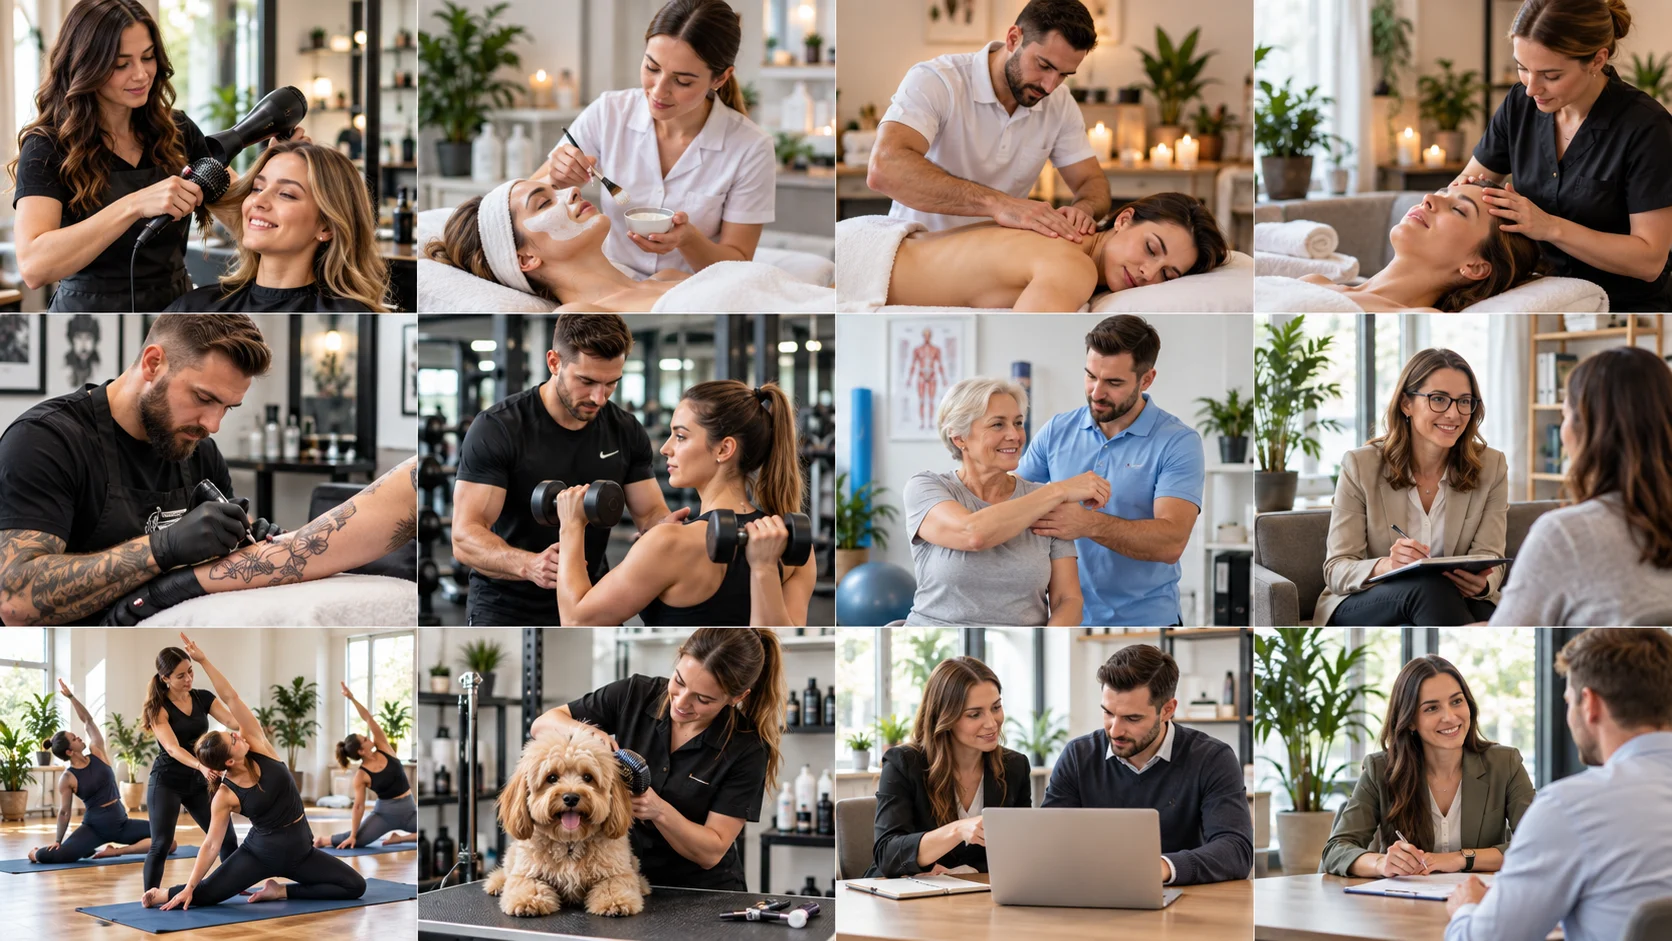
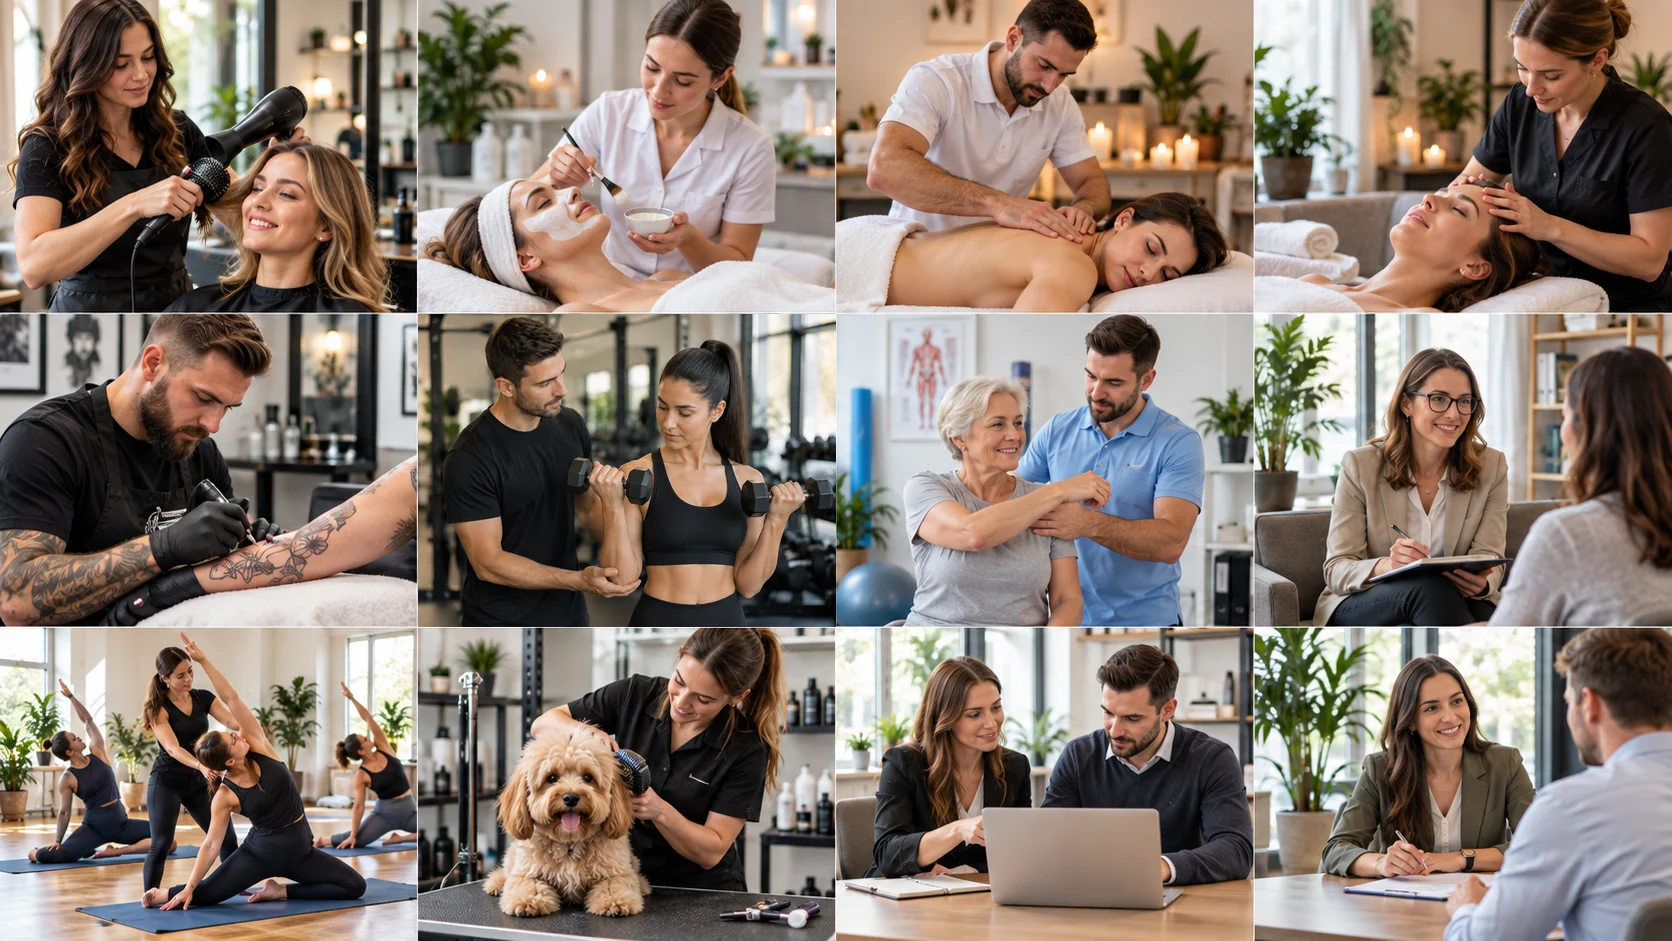
Align the header and add product heroes to feature pages
The home and pricing pages squeeze every .container to 1380px with
clamp(20px, 4vw, 48px) side padding, while the shared Navbar and Footer
kept max-w-[1500px] with 32px padding everywhere else. That made the
logo and login button sit wider on every other route. Navbar, Footer and
CustomerNavbar now use one .site-shell-container with the home values,
so the header and footer line up on all routes.

Feature pages get a two-column hero that shows the page's existing real
screenshot in the home-page browser frame (reusing the home hero
classes), with click-to-enlarge in a native dialog. The lower duplicate
figure is removed, the page sections use the same shell width, and the
fiscal cash register page now shows the invoice screenshot with alt text
describing what is visible. Integracije has no screenshot yet and keeps
a single-column hero.

Replace the "Fitnes & osebno trenerstvo" card in the homepage sprite
sheet (source PNG and webp): the old photo had malformed hands and a
Nike logo.

Changed region(s): [[0.2488, 0.3082, 0.4976, 0.678]]

diff --git a/src/pages/FeatureDetailPage.tsx b/src/pages/FeatureDetailPage.tsx
@@ -5,6 +5,7 @@ import { GroupBookingHero, GroupBookingUseCases } from "@/components/marketing/G
 import AnswerSummary from "@/components/seo/AnswerSummary";
 import PageBreadcrumbs from "@/components/seo/PageBreadcrumbs";
 import RelatedPages from "@/components/seo/RelatedPages";
+import FeatureHeroVisual from "@/components/marketing/FeatureHeroVisual";
 import { Button } from "@/components/ui/button";
 import { getFaqForRoute } from "@/lib/faq";
 import { getFeatureContent, isFeatureRouteKey } from "@/lib/feature-pages";
@@ -27,11 +28,6 @@ const FeatureDetailPage = () => {
   const page = getFeatureContent(routeKey, language);
   const isGroupBookingPage = routeKey === "groupBookings";
   const faq = getFaqForRoute(routeKey, language) ?? [];
-  const screenshotWidthClass = routeKey === "clientManagement"
-    ? "mx-auto max-w-2xl"
-    : routeKey === "invoicing"
-      ? "mx-auto max-w-4xl"
-      : "";
 
   return (
     <div className={`marketing-page marketing-redesign min-h-screen bg-background${isGroupBookingPage ? " group-bookings-page" : ""}`}>
@@ -40,11 +36,12 @@ const FeatureDetailPage = () => {
         {isGroupBookingPage ? (
           <GroupBookingHero page={page} language={language} ctaRef={heroCtaRef} />
         ) : (
-        <section className="border-b border-border/60 bg-gradient-to-br from-background via-card to-primary/[0.05] py-16 md:py-24">
-          <div className="container mx-auto max-w-6xl px-4 lg:px-8">
+        <section className="overflow-hidden border-b border-border/60 bg-gradient-to-br from-background via-card to-primary/[0.05] py-16 md:py-24">
+          <div className={`site-shell-container grid items-start gap-11${page.screenshot ? " lg:grid-cols-2 lg:gap-14" : ""}`}>
+            <div className="min-w-0">
             <PageBreadcrumbs routeKey={routeKey} />
             <span className="marketing-eyebrow">{page.eyebrow}</span>
-            <h1 className="mt-4 max-w-4xl font-display text-4xl font-extrabold tracking-tight text-foreground md:text-6xl">
+            <h1 className={`mt-4 font-display text-[clamp(2.25rem,4.15vw,3.7rem)] font-[750] leading-[1.08] tracking-[-0.047em] text-foreground ${page.screenshot ? "max-w-[640px]" : "max-w-4xl"}`}>
               {page.title}
             </h1>
             <p className="mt-6 max-w-3xl text-lg leading-8 text-muted-foreground md:text-xl">{page.intro}</p>
@@ -74,6 +71,8 @@ const FeatureDetailPage = () => {
                 </a>
               </Button>
             </div>
+            </div>
+            {page.screenshot ? <FeatureHeroVisual screenshot={page.screenshot} language={language} /> : null}
           </div>
         </section>
         )}
@@ -81,7 +80,7 @@ const FeatureDetailPage = () => {
         {isGroupBookingPage ? (
           <GroupBookingUseCases page={page} />
         ) : (
-        <section className="container mx-auto max-w-6xl px-4 py-16 lg:px-8 md:py-24">
+        <section className="site-shell-container py-16 md:py-24">
           <h2 className="font-display text-3xl font-bold tracking-tight text-foreground sm:text-4xl">{page.useCasesTitle}</h2>
           <p className="mt-4 max-w-3xl text-lg leading-8 text-muted-foreground">{page.useCasesIntro}</p>
           <div className="mt-10 grid gap-6 md:grid-cols-2">
@@ -96,7 +95,7 @@ const FeatureDetailPage = () => {
         )}
 
         <section className="bg-card py-16 md:py-24">
-          <div className="container mx-auto max-w-6xl px-4 lg:px-8">
+          <div className="site-shell-container">
             <h2 className="font-display text-3xl font-bold tracking-tight text-foreground sm:text-4xl">{page.benefitsTitle}</h2>
             <div className="mt-10 grid gap-6 md:grid-cols-3">
               {page.benefits.map((benefit) => (
@@ -110,7 +109,7 @@ const FeatureDetailPage = () => {
           </div>
         </section>
 
-        <section className="container mx-auto max-w-6xl px-4 py-16 lg:px-8 md:py-24">
+        <section className="site-shell-container py-16 md:py-24">
           <h2 className="font-display text-3xl font-bold tracking-tight text-foreground sm:text-4xl">{page.comparisonTitle}</h2>
           <p className="mt-4 max-w-3xl text-lg leading-8 text-muted-foreground">{page.comparisonIntro}</p>
 
@@ -151,7 +150,7 @@ const FeatureDetailPage = () => {
         </section>
 
         <section className="bg-card py-16 md:py-24">
-          <div className="container mx-auto grid max-w-6xl gap-10 px-4 lg:grid-cols-[0.8fr_1.2fr] lg:px-8">
+          <div className="site-shell-container grid gap-10 lg:grid-cols-[0.8fr_1.2fr]">
             <div>
               <Link2 className="h-8 w-8 text-primary" aria-hidden="true" />
               <h2 className="mt-5 font-display text-3xl font-bold text-foreground">{page.processTitle}</h2>
@@ -169,29 +168,8 @@ const FeatureDetailPage = () => {
           </div>
         </section>
 
-        {page.screenshot ? (
-          <section className="container mx-auto max-w-6xl px-4 py-16 lg:px-8 md:py-24">
-            <figure className={`overflow-hidden rounded-3xl border border-border/60 bg-card shadow-soft ${screenshotWidthClass}`.trim()}>
-              <img
-                src={page.screenshot.src}
-                srcSet={page.screenshot.srcSet}
-                sizes={page.screenshot.sizes}
-                alt={page.screenshot.alt}
-                width={page.screenshot.width}
-                height={page.screenshot.height}
-                loading="lazy"
-                decoding="async"
-                className="block h-auto w-full"
-              />
-              <figcaption className="border-t border-border/60 px-5 py-4 text-sm text-muted-foreground">
-                {page.screenshot.caption}
-              </figcaption>
-            </figure>
-          </section>
-        ) : null}
-
         {page.details.length > 0 && <section className="bg-card py-16 md:py-24">
-          <div className="container mx-auto max-w-6xl px-4 lg:px-8">
+          <div className="site-shell-container">
             <h2 className="font-display text-3xl font-bold tracking-tight text-foreground sm:text-4xl">{page.detailsTitle}</h2>
             <div className="mt-10 grid gap-6 md:grid-cols-2">
               {page.details.map((detail) => (
@@ -204,7 +182,7 @@ const FeatureDetailPage = () => {
           </div>
         </section>}
 
-        <section className="container mx-auto max-w-6xl px-4 py-16 lg:px-8 md:py-24">
+        <section className="site-shell-container py-16 md:py-24">
           <h2 className="font-display text-3xl font-bold tracking-tight text-foreground sm:text-4xl">{page.faqTitle}</h2>
           <div className="mt-8 grid gap-3">
             {faq.map((item) => (
@@ -220,7 +198,7 @@ const FeatureDetailPage = () => {
 
         <RelatedPages routeKey={routeKey} />
 
-        <section className="container mx-auto max-w-6xl px-4 py-16 text-center lg:px-8 md:py-24">
+        <section className="site-shell-container py-16 text-center md:py-24">
           <h2 className="font-display text-3xl font-bold text-foreground">{page.finalTitle}</h2>
           <p className="mx-auto mt-4 max-w-2xl text-lg text-muted-foreground">{page.finalBody}</p>
           <Button variant="hero" size="lg" className="mt-7 rounded-xl" asChild>

diff --git a/src/components/marketing/FeatureHeroVisual.tsx b/src/components/marketing/FeatureHeroVisual.tsx
@@ -1,0 +1,103 @@
+import { useRef } from "react";
+import { MousePointerClick, X, ZoomIn } from "lucide-react";
+import type { SiteLanguage } from "@/lib/site-language";
+
+type FeatureHeroScreenshot = {
+  src: string;
+  srcSet?: string;
+  alt: string;
+  caption: string;
+  width: number;
+  height: number;
+};
+
+type FeatureHeroVisualProps = {
+  screenshot: FeatureHeroScreenshot;
+  language: SiteLanguage;
+};
+
+/** Tallest the framed screenshot may render in the hero. */
+const MAX_FRAME_IMAGE_HEIGHT = 540;
+/** The hero thumbnail is cropped from the top-left to an aspect between these
+ * bounds, so portrait screens are not too tall and very wide ones (inventory)
+ * are not too small to read. The dialog always shows the whole screenshot. */
+const MIN_FRAME_ASPECT = 1;
+const MAX_FRAME_ASPECT = 1.6;
+
+/**
+ * Product visual for the feature-page hero. It reuses the home-page hero's
+ * browser frame, hint and caption classes (src/styles/homepage.css, which is
+ * part of the global stylesheet), so both heroes stay visually identical.
+ * It shows the page's real screenshot only; clicking it opens the same image
+ * at full size in a native modal dialog.
+ */
+const FeatureHeroVisual = ({ screenshot, language }: FeatureHeroVisualProps) => {
+  const dialogRef = useRef<HTMLDialogElement>(null);
+  const sl = language === "sl";
+  const aspect = Math.min(MAX_FRAME_ASPECT, Math.max(MIN_FRAME_ASPECT, screenshot.width / screenshot.height));
+  const frameMaxWidth = Math.round(MAX_FRAME_IMAGE_HEIGHT * aspect);
+
+  const open = () => dialogRef.current?.showModal();
+  const close = () => dialogRef.current?.close();
+
+  return (
+    // Top-aligned with the headline (lg:pt-24) rather than centred on the long copy column.
+    <div className="relative mx-auto flex w-full min-w-0 max-w-[760px] flex-col items-center before:pointer-events-none before:absolute before:inset-[-60px_-80px] before:bg-[radial-gradient(ellipse,hsl(211_100%_96%),transparent_70%)] before:content-[''] lg:max-w-none lg:pt-24">
+      <button
+        type="button"
+        className="home-desktop-frame home-preview-trigger"
+        style={{ maxWidth: `min(100%, ${frameMaxWidth}px)` }}
+        onClick={open}
+        aria-haspopup="dialog"
+        aria-label={sl ? `Povečaj posnetek zaslona: ${screenshot.caption}` : `Enlarge screenshot: ${screenshot.caption}`}
+      >
+        <span className="home-browser-bar" aria-hidden="true"><span /><span /><span /><small>app.calendra.si</small></span>
+        <img
+          src={screenshot.src}
+          srcSet={screenshot.srcSet}
+          sizes="(min-width: 1024px) 640px, 92vw"
+          alt={screenshot.alt}
+          width={screenshot.width}
+          height={screenshot.height}
+          className="object-cover object-left-top"
+          style={{ aspectRatio: String(aspect) }}
+          decoding="async"
+          {...{ fetchpriority: "high" }}
+        />
+        <span className="home-device-hint" aria-hidden="true"><ZoomIn />{sl ? "Kliknite za povečavo" : "Click to enlarge"}</span>
+      </button>
+      <p className="home-preview-caption">
+        <MousePointerClick aria-hidden="true" />
+        {screenshot.caption}
+      </p>
+
+      <dialog
+        ref={dialogRef}
+        className="max-h-[calc(100vh-32px)] w-[min(1180px,calc(100vw-32px))] max-w-none rounded-[18px] border-0 p-2 shadow-2xl backdrop:bg-slate-950/70 sm:p-4"
+        aria-label={screenshot.caption}
+        onClick={(event) => { if (event.target === event.currentTarget) close(); }}
+      >
+        <button
+          type="button"
+          className="absolute right-3.5 top-3.5 grid h-10 w-10 place-items-center rounded-full bg-slate-900/85 text-white sm:right-6 sm:top-6"
+          onClick={close}
+          aria-label={sl ? "Zapri povečan pogled" : "Close enlarged preview"}
+        >
+          <X className="h-[18px] w-[18px]" aria-hidden="true" />
+        </button>
+        <img
+          src={screenshot.src}
+          alt={screenshot.alt}
+          width={screenshot.width}
+          height={screenshot.height}
+          className="mx-auto block h-auto max-h-[calc(100vh-124px)] w-auto max-w-full rounded-[10px]"
+          loading="lazy"
+          decoding="async"
+        />
+        <p className="mt-3 text-center text-sm text-muted-foreground">{screenshot.caption}</p>
+      </dialog>
+    </div>
+  );
+};
+
+export default FeatureHeroVisual;

diff --git a/src/lib/feature-pages.ts b/src/lib/feature-pages.ts
@@ -1734,6 +1734,11 @@ const content: Record<FeatureRouteKey, Record<SiteLanguage, FeaturePageContent>>
         "Izberete način oziroma načine plačila in zaključite račun.",
         "Kadar je potrebno, Calendra račun davčno potrdi, nato pa ostane povezan s terminom in stranko.",
       ],
+      screenshot: {
+        ...MARKETING_IMAGES.invoicing,
+        alt: "Odprt račun v Calendri z dvema postavkama, DDV, popustom in dvema načinoma plačila pred zaključkom računa",
+        caption: "Račun pripravite v Calendri, ob zaključku pa ga dodatek Davčna blagajna davčno potrdi.",
+      },
       detailsTitle: "Kako deluje davčna blagajna v Calendri",
       details: [
         {
@@ -1813,6 +1818,11 @@ const content: Record<FeatureRouteKey, Record<SiteLanguage, FeaturePageContent>>
         "Choose the payment method or methods and finalise the invoice.",
         "Where required, Calendra fiscally verifies the invoice and keeps it linked to the appointment and client.",
       ],
+      screenshot: {
+        ...MARKETING_IMAGES.invoicing,
+        alt: "Open invoice in Calendra with two line items, VAT, a discount and two payment methods before the invoice is finalised",
+        caption: "Prepare the invoice in Calendra; when you finalise it, the Fiscal Cash Register add-on confirms it with FURS.",
+      },
       detailsTitle: "How Calendra's fiscal cash register works",
       details: [
         { title: "Is the Fiscal cash register a separate program?", body: "No. It is an add-on inside Calendra and uses the same appointments, clients, services and billing data as the rest of the application." },

diff --git a/src/index.css b/src/index.css
@@ -462,7 +462,8 @@ All colors MUST be HSL.
       radial-gradient(circle at 95% 88%, hsl(34 100% 95%), transparent 25rem) !important;
   }
 
-  .marketing-redesign main > section.container:nth-child(even) {
+  .marketing-redesign main > section.container:nth-child(even),
+  .marketing-redesign main > section.site-shell-container:nth-child(even) {
     box-shadow: 0 0 0 100vmax hsl(214 75% 97%) !important;
     clip-path: inset(0 -100vmax);
   }
@@ -606,4 +607,16 @@ All colors MUST be HSL.
 .group-bookings-page.marketing-redesign main > .group-bookings-hero.psychology-hero {
   background-color: #fff !important;
   background-image: none !important;
+}
+
+/* Shared site shell. The header and footer use the same width and side padding
+ * as the approved home page (src/styles/homepage.css `.homepage .container`) on
+ * every route, so the logo and login button line up with the home page. */
+@layer components {
+  .site-shell-container {
+    width: 100%;
+    max-width: 1380px;
+    margin-inline: auto;
+    padding-inline: clamp(20px, 4vw, 48px);
+  }
 }

diff --git a/src/components/landing/CustomerNavbar.tsx b/src/components/landing/CustomerNavbar.tsx
@@ -197,7 +197,7 @@ const CustomerNavbar = () => {
 
   return (
     <nav className="site-navbar-editorial sticky top-0 z-50 border-b border-border/40 bg-background/95 backdrop-blur-xl">
-      <div className="mx-auto flex h-[68px] max-w-[1380px] items-center gap-4 px-4 lg:px-6">
+      <div className="site-shell-container flex h-[68px] items-center gap-4">
         <a href={customerPath} className="flex shrink-0 items-center">
           <img src={WORDMARK.src} alt="Calendra" width={WORDMARK.width} height={WORDMARK.height} className="site-brand-wordmark h-8 w-auto md:h-9" />
         </a>

diff --git a/src/components/landing/Navbar.tsx b/src/components/landing/Navbar.tsx
@@ -316,7 +316,7 @@ const Navbar = () => {
       className="site-navbar-editorial sticky top-0 isolate border-b border-border/45 bg-white/90 backdrop-blur-xl supports-[backdrop-filter]:bg-white/84"
       style={{ zIndex: 1000 }}
     >
-      <div className="container mx-auto flex h-[68px] max-w-[1500px] items-center justify-between gap-4 px-4 sm:px-6 lg:px-8">
+      <div className="site-shell-container flex h-[68px] items-center justify-between gap-4">
         <div className="flex items-center gap-4">
           <a href={homePath} className="flex items-center">
             <img

diff --git a/src/components/landing/Footer.tsx b/src/components/landing/Footer.tsx
@@ -142,7 +142,7 @@ const Footer = () => {
 
   return (
     <footer className="site-footer-editorial border-t py-14 md:py-20">
-      <div className="container mx-auto max-w-[1500px] px-4 sm:px-6 lg:px-8">
+      <div className="site-shell-container">
         <div className="grid gap-10 sm:grid-cols-2 lg:grid-cols-3 xl:grid-cols-[1.1fr_0.7fr_1fr_1.1fr_1fr_0.8fr_1.2fr]">
           <div>
             <a href={homePath} className="inline-flex items-center">
